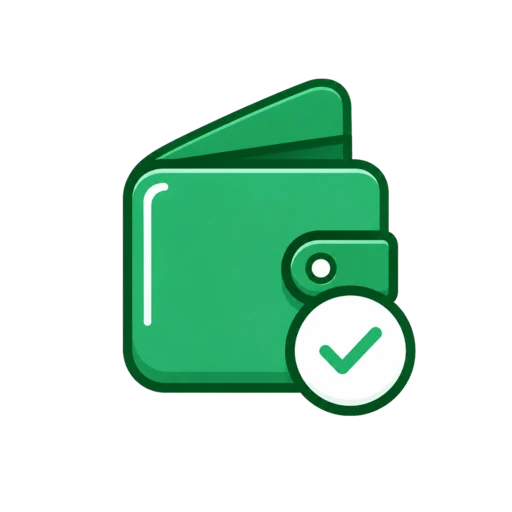
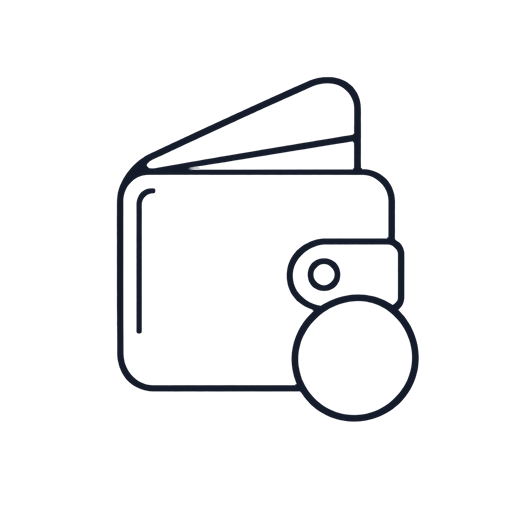
feat(mobile): padroniza ilustrações de atendimento

Changed region(s): [[0.2188, 0.125, 0.8438, 0.8438], [0.625, 0.625, 0.75, 0.75]]

diff --git a/lib/presentation/screens/atendimento_mobile_screen.dart b/lib/presentation/screens/atendimento_mobile_screen.dart
@@ -9,6 +9,7 @@ import 'package:sixpos/design_system/themes/six_mobile_palette.dart';
 import 'package:sixpos/l10n/six_i18n.dart';
 import 'package:sixpos/presentation/components/mobile_motion.dart';
 import 'package:sixpos/presentation/components/mobile/six_mobile_app_bar_profile_action.dart';
+import 'package:sixpos/presentation/components/mobile/six_imagem_canetinha.dart';
 import 'package:sixpos/presentation/components/mobile/six_mobile_page_shell.dart';
 import 'package:sixpos/presentation/coordinators/operational_procedure_flow_coordinator.dart';
 import 'package:sixpos/presentation/screens/devolucoes_produtos_mobile_screen.dart';
@@ -50,18 +51,30 @@ class _AtendimentoMobileScreenState extends State<AtendimentoMobileScreen> {
   static const Color _cashAccent = Color(0xFF0F766E);
   static const Color _returnAccent = Color(0xFFEF4444);
 
-  static const String _heroAsset =
+  static const String _heroAssetContorno =
       'assets/images/atendimento mobile/atendimento-hero.webp';
-  static const String _saleAsset =
-      'assets/images/atendimento mobile/acao-nova-venda.png';
-  static const String _serviceAsset =
-      'assets/images/atendimento mobile/acao-novo-servico.png';
-  static const String _receiveAsset =
-      'assets/images/atendimento mobile/acao-receber.png';
-  static const String _cashAsset =
-      'assets/images/atendimento mobile/acao-operacoes-caixa.png';
-  static const String _returnAsset =
-      'assets/images/atendimento mobile/acao-devolucoes.png';
+  static const String _heroAssetAcento =
+      'assets/images/atendimento mobile/atendimento-hero-acento.webp';
+  static const String _saleAssetContorno =
+      'assets/images/atendimento mobile/acao-nova-venda.webp';
+  static const String _saleAssetAcento =
+      'assets/images/atendimento mobile/acao-nova-venda-acento.webp';
+  static const String _serviceAssetContorno =
+      'assets/images/atendimento mobile/acao-novo-servico.webp';
+  static const String _serviceAssetAcento =
+      'assets/images/atendimento mobile/acao-novo-servico-acento.webp';
+  static const String _receiveAssetContorno =
+      'assets/images/atendimento mobile/acao-receber.webp';
+  static const String _receiveAssetAcento =
+      'assets/images/atendimento mobile/acao-receber-acento.webp';
+  static const String _cashAssetContorno =
+      'assets/images/atendimento mobile/acao-operacoes-caixa.webp';
+  static const String _cashAssetAcento =
+      'assets/images/atendimento mobile/acao-operacoes-caixa-acento.webp';
+  static const String _returnAssetContorno =
+      'assets/images/atendimento mobile/acao-devolucoes.webp';
+  static const String _returnAssetAcento =
+      'assets/images/atendimento mobile/acao-devolucoes-acento.webp';
 
   late final TelaInicialWebApiClient _api;
   late final OperationalProcedureFlowCoordinator _procedureCoordinator;
@@ -203,7 +216,8 @@ class _AtendimentoMobileScreenState extends State<AtendimentoMobileScreen> {
                       'atendimento.mobile.heroSubtitle',
                       'Venda, serviço ou recebimento em poucos passos',
                     ),
-                    assetPath: _heroAsset,
+                    assetContorno: _heroAssetContorno,
+                    assetAcento: _heroAssetAcento,
                   ),
                 ),
                 SizedBox(height: 16),
@@ -278,7 +292,8 @@ class _AtendimentoMobileScreenState extends State<AtendimentoMobileScreen> {
         id: 'new-sale',
         title: _txt('atendimento.mobile.newSaleTitle', 'Nova venda'),
         subtitle: _txt('atendimento.mobile.newSaleSubtitle', 'Vender produtos'),
-        assetPath: _saleAsset,
+        assetContorno: _saleAssetContorno,
+        assetAcento: _saleAssetAcento,
         accentColor: _accent,
         onTap: _openSalesMenu,
       ),
@@ -289,7 +304,8 @@ class _AtendimentoMobileScreenState extends State<AtendimentoMobileScreen> {
           'atendimento.mobile.newServiceSubtitle',
           'Criar ou acompanhar',
         ),
-        assetPath: _serviceAsset,
+        assetContorno: _serviceAssetContorno,
+        assetAcento: _serviceAssetAcento,
         accentColor: _serviceAccent,
         onTap: () => _go(OpcoesServicosAtendimentoMobileScreen()),
       ),
@@ -305,7 +321,8 @@ class _AtendimentoMobileScreenState extends State<AtendimentoMobileScreen> {
           'atendimento.mobile.receiveSubtitle',
           'Vendas em aberto',
         ),
-        assetPath: _receiveAsset,
+        assetContorno: _receiveAssetContorno,
+        assetAcento: _receiveAssetAcento,
         accentColor: _receiveAccent,
         onTap: () => _go(ReceberMobileScreen()),
         badgeValue: _resumo?.totalVendasAbertas,
@@ -320,7 +337,8 @@ class _AtendimentoMobileScreenState extends State<AtendimentoMobileScreen> {
           'atendimento.mobile.cashOperationsSubtitle',
           'Abrir e movimentar',
         ),
-        assetPath: _cashAsset,
+        assetContorno: _cashAssetContorno,
+        assetAcento: _cashAssetAcento,
         accentColor: _cashAccent,
         onTap: () => _go(OperacoesCaixaMobileScreen()),
       ),
@@ -328,7 +346,8 @@ class _AtendimentoMobileScreenState extends State<AtendimentoMobileScreen> {
         id: 'return',
         title: _txt('operacao.mobile.returnTitle', 'Devoluções'),
         subtitle: _txt('operacao.mobile.returnSubtitle', 'Registrar devolução'),
-        assetPath: _returnAsset,
+        assetContorno: _returnAssetContorno,
+        assetAcento: _returnAssetAcento,
         accentColor: _returnAccent,
         onTap: () => _go(DevolucoesProdutosMobileScreen()),
       ),
@@ -354,12 +373,14 @@ class _AtendimentoHeroCard extends StatelessWidget {
   const _AtendimentoHeroCard({
     required this.title,
     required this.subtitle,
-    required this.assetPath,
+    required this.assetContorno,
+    required this.assetAcento,
   });
 
   final String title;
   final String subtitle;
-  final String assetPath;
+  final String assetContorno;
+  final String assetAcento;
 
   @override
   Widget build(BuildContext context) {
@@ -405,19 +426,13 @@ class _AtendimentoHeroCard extends StatelessWidget {
                   bottom: illustrationBottomOffset,
                   width: illustrationWidth,
                   height: illustrationHeight,
-                  child: ExcludeSemantics(
-                    child: Image.asset(
-                      assetPath,
-                      fit: BoxFit.contain,
-                      filterQuality: FilterQuality.medium,
-                      errorBuilder: (
-                        BuildContext context,
-                        Object error,
-                        StackTrace? stackTrace,
-                      ) {
-                        return SizedBox.shrink();
-                      },
-                    ),
+                  child: SixImagemCanetinha(
+                    assetContorno: assetContorno,
+                    assetAcento: assetAcento,
+                    largura: illustrationWidth,
+                    altura: illustrationHeight,
+                    corContorno: colors.titleText,
+                    corAcento: colors.accent,
                   ),
                 ),
                 Padding(
@@ -733,23 +748,14 @@ class _ActionCardContent extends StatelessWidget {
             shape: BoxShape.circle,
           ),
           child: Center(
-            child: Image.asset(
-              data.assetPath,
-              width: imageSize,
-              height: imageSize,
+            child: SixImagemCanetinha(
+              assetContorno: data.assetContorno,
+              assetAcento: data.assetAcento,
+              largura: imageSize,
+              altura: imageSize,
               fit: BoxFit.contain,
-              filterQuality: FilterQuality.medium,
-              errorBuilder: (
-                BuildContext context,
-                Object error,
-                StackTrace? stackTrace,
-              ) {
-                return Icon(
-                  Icons.image_not_supported_outlined,
-                  color: enabled ? data.accentColor : colors.mutedText,
-                  size: _isPrimary ? 22 : 18,
-                );
-              },
+              corContorno: colors.titleText,
+              corAcento: colors.accent,
             ),
           ),
         ),
@@ -922,7 +928,8 @@ class _PrimaryActionData {
     required this.id,
     required this.title,
     required this.subtitle,
-    required this.assetPath,
+    required this.assetContorno,
+    required this.assetAcento,
     required this.accentColor,
     required this.onTap,
     this.enabled = true,
@@ -933,7 +940,8 @@ class _PrimaryActionData {
   final String id;
   final String title;
   final String subtitle;
-  final String assetPath;
+  final String assetContorno;
+  final String assetAcento;
   final Color accentColor;
   final VoidCallback? onTap;
   final bool enabled;

diff --git a/test/presentation/components/mobile/six_imagem_canetinha_test.dart b/test/presentation/components/mobile/six_imagem_canetinha_test.dart
@@ -1,0 +1,104 @@
+import 'package:flutter/material.dart';
+import 'package:flutter_test/flutter_test.dart';
+import 'package:sixpos/presentation/components/mobile/six_imagem_canetinha.dart';
+
+const String _assetContorno =
+    'assets/images/atendimento mobile/acao-receber.webp';
+const String _assetAcento =
+    'assets/images/atendimento mobile/acao-receber-acento.webp';
+
+void main() {
+  testWidgets('aplica as cores das duas camadas no tema claro', (
+    WidgetTester tester,
+  ) async {
+    const Color corContorno = Color(0xFF172033);
+    const Color corPrimaria = Color(0xFF1D63E9);
+
+    await _pumpImagem(
+      tester,
+      brightness: Brightness.light,
+      corContorno: corContorno,
+      corPrimaria: corPrimaria,
+    );
+
+    _expectCamadas(tester, corContorno: corContorno, corPrimaria: corPrimaria);
+    expect(find.bySemanticsLabel('Pagamento recebido'), findsOneWidget);
+    expect(tester.takeException(), isNull);
+  });
+
+  testWidgets('aplica as cores das duas camadas no tema escuro', (
+    WidgetTester tester,
+  ) async {
+    const Color corContorno = Color(0xFFEFF4FA);
+    const Color corPrimaria = Color(0xFF60A5FA);
+
+    await _pumpImagem(
+      tester,
+      brightness: Brightness.dark,
+      corContorno: corContorno,
+      corPrimaria: corPrimaria,
+    );
+
+    _expectCamadas(tester, corContorno: corContorno, corPrimaria: corPrimaria);
+    expect(find.bySemanticsLabel('Pagamento recebido'), findsOneWidget);
+    expect(tester.takeException(), isNull);
+  });
+}
+
+Future<void> _pumpImagem(
+  WidgetTester tester, {
+  required Brightness brightness,
+  required Color corContorno,
+  required Color corPrimaria,
+}) async {
+  await tester.pumpWidget(
+    MaterialApp(
+      theme: ThemeData(
+        brightness: brightness,
+        colorScheme: ColorScheme.fromSeed(
+          seedColor: corPrimaria,
+          brightness: brightness,
+        ).copyWith(primary: corPrimaria, onSurface: corContorno),
+      ),
+      home: const Scaffold(
+        body: Center(
+          child: SixImagemCanetinha(
+            assetContorno: _assetContorno,
+            assetAcento: _assetAcento,
+            largura: 120,
+            altura: 120,
+            rotuloSemantico: 'Pagamento recebido',
+          ),
+        ),
+      ),
+    ),
+  );
+  await tester.pumpAndSettle();
+}
+
+void _expectCamadas(
+  WidgetTester tester, {
+  required Color corContorno,
+  required Color corPrimaria,
+}) {
+  final Finder finder = find.descendant(
+    of: find.byType(SixImagemCanetinha),
+    matching: find.byType(Image),
+  );
+  final List<Image> camadas = tester.widgetList<Image>(finder).toList();
+
+  expect(camadas, hasLength(2));
+  expect(camadas[0].color, corContorno);
+  expect(camadas[1].color, corPrimaria);
+  expect(camadas[0].colorBlendMode, BlendMode.srcIn);
+  expect(camadas[1].colorBlendMode, BlendMode.srcIn);
+  expect(camadas[0].excludeFromSemantics, isTrue);
+  expect(camadas[1].excludeFromSemantics, isTrue);
+  expect(
+    find.descendant(
+      of: find.byType(SixImagemCanetinha),
+      matching: find.byType(Stack),
+    ),
+    findsOneWidget,
+  );
+}

diff --git a/lib/presentation/components/mobile/six_imagem_canetinha.dart b/lib/presentation/components/mobile/six_imagem_canetinha.dart
@@ -1,0 +1,86 @@
+import 'package:flutter/material.dart';
+
+/// Ilustração em duas camadas que acompanha as cores do tema ativo.
+class SixImagemCanetinha extends StatelessWidget {
+  const SixImagemCanetinha({
+    super.key,
+    required this.assetContorno,
+    required this.assetAcento,
+    required this.largura,
+    required this.altura,
+    this.fit = BoxFit.contain,
+    this.rotuloSemantico,
+    this.corContorno,
+    this.corAcento,
+  });
+
+  final String assetContorno;
+  final String assetAcento;
+  final double largura;
+  final double altura;
+  final BoxFit fit;
+  final String? rotuloSemantico;
+  final Color? corContorno;
+  final Color? corAcento;
+
+  @override
+  Widget build(BuildContext context) {
+    final ColorScheme colorScheme = Theme.of(context).colorScheme;
+    final Widget imagem = SizedBox(
+      width: largura,
+      height: altura,
+      child: Stack(
+        fit: StackFit.expand,
+        alignment: Alignment.center,
+        children: <Widget>[
+          _CamadaImagemCanetinha(
+            asset: assetContorno,
+            cor: corContorno ?? colorScheme.onSurface,
+            fit: fit,
+          ),
+          _CamadaImagemCanetinha(
+            asset: assetAcento,
+            cor: corAcento ?? colorScheme.primary,
+            fit: fit,
+          ),
+        ],
+      ),
+    );
+    final String? rotulo = rotuloSemantico?.trim();
+
+    if (rotulo == null || rotulo.isEmpty) {
+      return ExcludeSemantics(child: imagem);
+    }
+
+    return Semantics(
+      image: true,
+      label: rotulo,
+      child: ExcludeSemantics(child: imagem),
+    );
+  }
+}
+
+class _CamadaImagemCanetinha extends StatelessWidget {
+  const _CamadaImagemCanetinha({
+    required this.asset,
+    required this.cor,
+    required this.fit,
+  });
+
+  final String asset;
+  final Color cor;
+  final BoxFit fit;
+
+  @override
+  Widget build(BuildContext context) {
+    return Image.asset(
+      asset,
+      fit: fit,
+      color: cor,
+      colorBlendMode: BlendMode.srcIn,
+      filterQuality: FilterQuality.high,
+      isAntiAlias: true,
+      excludeFromSemantics: true,
+    );
+  }
+}
